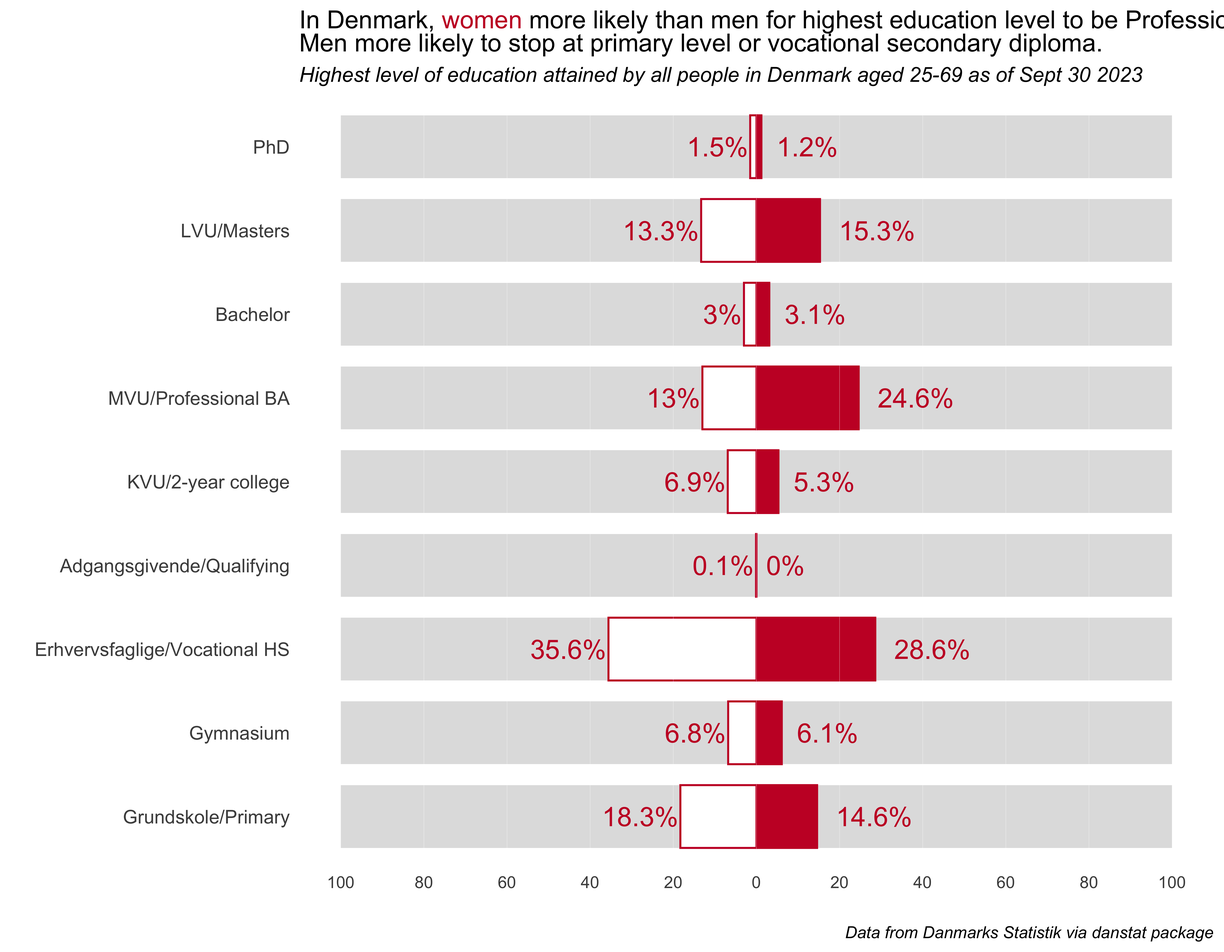
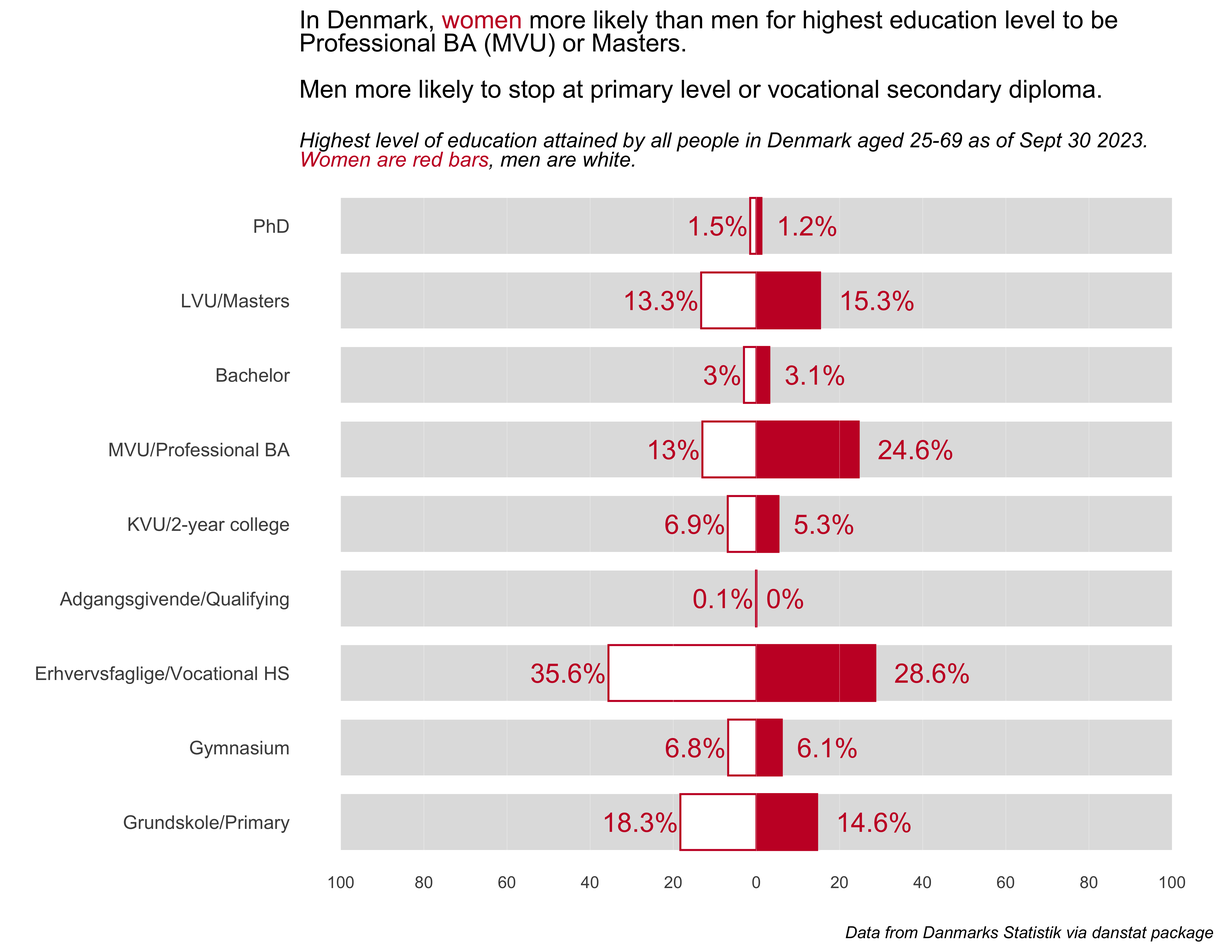
prompt 6 oecd

diff --git a/_site/posts/30-day-chart-challenge-2024/index.html b/_site/posts/30-day-chart-challenge-2024/index.html
@@ -7,7 +7,7 @@
 <meta name="viewport" content="width=device-width, initial-scale=1.0, user-scalable=yes">
 
 <meta name="author" content="gregers kjerulf dubrow">
-<meta name="dcterms.date" content="2024-04-24">
+<meta name="dcterms.date" content="2024-04-26">
 <meta name="description" content="Let’s make some charts!">
 
 <title>gregers kjerulf dubrow - 30 Day Chart Challenge 2024</title>
@@ -235,7 +235,7 @@ cookieconsent.run({
       <div>
       <div class="quarto-title-meta-heading">Published</div>
       <div class="quarto-title-meta-contents">
-        <p class="date">April 24, 2024</p>
+        <p class="date">April 26, 2024</p>
       </div>
     </div>
     
@@ -256,6 +256,7 @@ cookieconsent.run({
   <li><a href="#prompt2" id="toc-prompt2" class="nav-link" data-scroll-target="#prompt2">Prompt #2 - Neo</a></li>
   <li><a href="#prompts3and4" id="toc-prompts3and4" class="nav-link" data-scroll-target="#prompts3and4">Prompts #3 &amp; 4 - Redo &amp; Waffle</a></li>
   <li><a href="#prompt5" id="toc-prompt5" class="nav-link" data-scroll-target="#prompt5">Prompt #5 - Diverging</a></li>
+  <li><a href="#prompt6" id="toc-prompt6" class="nav-link" data-scroll-target="#prompt6">Prompt #6 - OECD</a></li>
   </ul>
 </nav>
     </div>
@@ -414,7 +415,7 @@ cookieconsent.run({
 <span id="cb3-5"><a href="#cb3-5" aria-hidden="true" tabindex="-1"></a>    <span class="fu">rename</span>(<span class="at">year =</span> TIME_PERIOD)</span>
 <span id="cb3-6"><a href="#cb3-6" aria-hidden="true" tabindex="-1"></a><span class="co">#&gt; </span></span>
 <span id="cb3-7"><a href="#cb3-7" aria-hidden="true" tabindex="-1"></a>indexed <span class="dv">0</span>B <span class="cf">in</span>  <span class="dv">0</span>s, <span class="dv">0</span>B<span class="sc">/</span>s</span>
-<span id="cb3-8"><a href="#cb3-8" aria-hidden="true" tabindex="-1"></a>indexed <span class="fl">1.00</span>TB <span class="cf">in</span>  <span class="dv">0</span>s, <span class="fl">2.30</span>PB<span class="sc">/</span>s</span>
+<span id="cb3-8"><a href="#cb3-8" aria-hidden="true" tabindex="-1"></a>indexed <span class="fl">1.00</span>TB <span class="cf">in</span>  <span class="dv">0</span>s, <span class="fl">2.51</span>PB<span class="sc">/</span>s</span>
 <span id="cb3-9"><a href="#cb3-9" aria-hidden="true" tabindex="-1"></a>                                                                              </span>
 <span id="cb3-10"><a href="#cb3-10" aria-hidden="true" tabindex="-1"></a></span>
 <span id="cb3-11"><a href="#cb3-11" aria-hidden="true" tabindex="-1"></a><span class="co"># make the plots</span></span>
@@ -753,14 +754,15 @@ cookieconsent.run({
 <span id="cb7-25"><a href="#cb7-25" aria-hidden="true" tabindex="-1"></a>                <span class="at">hjust =</span> <span class="sc">-</span>.<span class="dv">25</span>) <span class="sc">+</span></span>
 <span id="cb7-26"><a href="#cb7-26" aria-hidden="true" tabindex="-1"></a>    <span class="fu">labs</span>(<span class="at">x =</span> <span class="st">""</span>, <span class="at">y =</span> <span class="st">""</span>,</span>
 <span id="cb7-27"><a href="#cb7-27" aria-hidden="true" tabindex="-1"></a>             <span class="at">title =</span> <span class="st">"In Denmark, &lt;span style = 'color: #C8102E;'&gt;women&lt;/span&gt; more likely than men for highest education</span></span>
-<span id="cb7-28"><a href="#cb7-28" aria-hidden="true" tabindex="-1"></a><span class="st">             level to be Professional BA (MVU) or Masters.&lt;br&gt;Men more likely to stop at primary level or vocational secondary diploma."</span>,</span>
-<span id="cb7-29"><a href="#cb7-29" aria-hidden="true" tabindex="-1"></a>             <span class="at">subtitle =</span> <span class="st">"*Highest level of education attained by all people in Denmark aged 25-69 as of Sept 30 2023*"</span>,</span>
-<span id="cb7-30"><a href="#cb7-30" aria-hidden="true" tabindex="-1"></a>             <span class="at">caption =</span> <span class="st">"*Data from Danmarks Statistik via danstat package*"</span>) <span class="sc">+</span></span>
-<span id="cb7-31"><a href="#cb7-31" aria-hidden="true" tabindex="-1"></a>    <span class="fu">theme_minimal</span>() <span class="sc">+</span></span>
-<span id="cb7-32"><a href="#cb7-32" aria-hidden="true" tabindex="-1"></a>    <span class="fu">theme</span>(<span class="at">panel.grid =</span> <span class="fu">element_blank</span>(), <span class="at">plot.title =</span> <span class="fu">element_markdown</span>(),</span>
-<span id="cb7-33"><a href="#cb7-33" aria-hidden="true" tabindex="-1"></a>                <span class="at">plot.subtitle =</span> <span class="fu">element_markdown</span>(), <span class="at">plot.caption =</span> <span class="fu">element_markdown</span>(),</span>
-<span id="cb7-34"><a href="#cb7-34" aria-hidden="true" tabindex="-1"></a>                <span class="at">legend.position =</span> <span class="st">"none"</span>,</span>
-<span id="cb7-35"><a href="#cb7-35" aria-hidden="true" tabindex="-1"></a>                <span class="at">axis.text.y =</span> <span class="fu">element_text</span>(<span class="at">size =</span> <span class="dv">10</span>))</span></code><button title="Copy to Clipboard" class="code-copy-button"><i class="bi"></i></button></pre></div>
+<span id="cb7-28"><a href="#cb7-28" aria-hidden="true" tabindex="-1"></a><span class="st">             level to be &lt;br&gt;Professional BA (MVU) or Masters.&lt;br&gt;&lt;br&gt;Men more likely to stop at primary level or vocational secondary diploma."</span>,</span>
+<span id="cb7-29"><a href="#cb7-29" aria-hidden="true" tabindex="-1"></a>             <span class="at">subtitle =</span> <span class="st">"&lt;br&gt;*Highest level of education attained by all people in Denmark aged 25-69 as of Sept 30 2023.</span></span>
+<span id="cb7-30"><a href="#cb7-30" aria-hidden="true" tabindex="-1"></a><span class="st">             &lt;br&gt;&lt;span style = 'color: #C8102E;'&gt;Women are red bars&lt;/span&gt;, men are white.*"</span>,</span>
+<span id="cb7-31"><a href="#cb7-31" aria-hidden="true" tabindex="-1"></a>             <span class="at">caption =</span> <span class="st">"*Data from Danmarks Statistik via danstat package*"</span>) <span class="sc">+</span></span>
+<span id="cb7-32"><a href="#cb7-32" aria-hidden="true" tabindex="-1"></a>    <span class="fu">theme_minimal</span>() <span class="sc">+</span></span>
+<span id="cb7-33"><a href="#cb7-33" aria-hidden="true" tabindex="-1"></a>    <span class="fu">theme</span>(<span class="at">panel.grid =</span> <span class="fu">element_blank</span>(), <span class="at">plot.title =</span> <span class="fu">element_markdown</span>(),</span>
+<span id="cb7-34"><a href="#cb7-34" aria-hidden="true" tabindex="-1"></a>                <span class="at">plot.subtitle =</span> <span class="fu">element_markdown</span>(), <span class="at">plot.caption =</span> <span class="fu">element_markdown</span>(),</span>
+<span id="cb7-35"><a href="#cb7-35" aria-hidden="true" tabindex="-1"></a>                <span class="at">legend.position =</span> <span class="st">"none"</span>,</span>
+<span id="cb7-36"><a href="#cb7-36" aria-hidden="true" tabindex="-1"></a>                <span class="at">axis.text.y =</span> <span class="fu">element_text</span>(<span class="at">size =</span> <span class="dv">10</span>))</span></code><button title="Copy to Clipboard" class="code-copy-button"><i class="bi"></i></button></pre></div>
 </details>
 <div class="cell-output-display">
 <div>
@@ -772,6 +774,95 @@ cookieconsent.run({
 </div>
 <p>There it is, a simple, clean chart showing how highest educational attainment differs for women and men in Denmark. I’m definitely interested in exploring differences by age group and by region.</p>
 <p><em>created and posted April 24, 2024</em></p>
+</section>
+<section id="prompt6" class="level2">
+<h2 class="anchored" data-anchor-id="prompt6">Prompt #6 - OECD</h2>
+<p>Staying with the emerging theme of educational attainment, this prompt was a good excuse to try out the <a href="https://github.com/expersso/OECD"><code>oecd</code> package</a>. The package wraps functions to access OECD data through their API for their <a href="https://data-explorer.oecd.org/">Data Explorer platform</a>.</p>
+<p>It’s fairly straight forward to use…look up the table you want, set the filters, copy the API script and parse out as the package documentation shows. In the example they do not show it, but make sure if you set time parameters that you put it in the <code>start_date</code> and <code>end_date</code> calls. You can of course name the dataset and filters anything you want. I chose my names so they wouldn’t conflict with function calls.</p>
+<p>For this chart I looked at educational attainment in Nordic countries; Denmark, Finland, Iceland, Norway, &amp; Sweden <em>(i)</em>, by sex for all people aged 25 to 64 in 2022. For the sake of expediency, I’ll copy the overall format &amp; theme from prompt 1.</p>
+<p><em>i) let’s not get into here the difference between Nordic &amp; Scandinavian, what constitutes Scandinavian &amp; why…</em></p>
+<p>The code for getting the data and making the chart is below.</p>
+<div class="cell">
+<details class="code-fold">
+<summary>Show code for prompt 6</summary>
+<div class="sourceCode cell-code" id="cb8"><pre class="sourceCode r code-overflow-scroll code-with-copy"><code class="sourceCode r"><span id="cb8-1"><a href="#cb8-1" aria-hidden="true" tabindex="-1"></a><span class="do">## code for 30 Day Chart Challenge 2024, day 6 OECD</span></span>
+<span id="cb8-2"><a href="#cb8-2" aria-hidden="true" tabindex="-1"></a><span class="do">## educational attainment via OECD package</span></span>
+<span id="cb8-3"><a href="#cb8-3" aria-hidden="true" tabindex="-1"></a><span class="do">## nordics, by sex 25 to 64, 2020-2022</span></span>
+<span id="cb8-4"><a href="#cb8-4" aria-hidden="true" tabindex="-1"></a></span>
+<span id="cb8-5"><a href="#cb8-5" aria-hidden="true" tabindex="-1"></a><span class="fu">library</span>(tidyverse) <span class="co"># to do tidyverse things</span></span>
+<span id="cb8-6"><a href="#cb8-6" aria-hidden="true" tabindex="-1"></a><span class="fu">library</span>(tidylog) <span class="co"># to get a log of what's happening to the data</span></span>
+<span id="cb8-7"><a href="#cb8-7" aria-hidden="true" tabindex="-1"></a><span class="fu">library</span>(janitor) <span class="co"># tools for data cleaning</span></span>
+<span id="cb8-8"><a href="#cb8-8" aria-hidden="true" tabindex="-1"></a><span class="fu">library</span>(OECD) <span class="co"># package to get OECD data via api</span></span>
+<span id="cb8-9"><a href="#cb8-9" aria-hidden="true" tabindex="-1"></a><span class="fu">library</span>(ggtext) <span class="co"># enhancements for text in ggplot</span></span>
+<span id="cb8-10"><a href="#cb8-10" aria-hidden="true" tabindex="-1"></a></span>
+<span id="cb8-11"><a href="#cb8-11" aria-hidden="true" tabindex="-1"></a><span class="co"># table from website</span></span>
+<span id="cb8-12"><a href="#cb8-12" aria-hidden="true" tabindex="-1"></a><span class="co"># https://www.oecd-ilibrary.org/education/data/education-at-a-glance/educational-attainment-and-labour-force-status_889e8641-en</span></span>
+<span id="cb8-13"><a href="#cb8-13" aria-hidden="true" tabindex="-1"></a></span>
+<span id="cb8-14"><a href="#cb8-14" aria-hidden="true" tabindex="-1"></a>edattdata <span class="ot">&lt;-</span> <span class="st">"OECD.CFE.EDS,DSD_REG_EDU@DF_ATTAIN,1.0"</span></span>
+<span id="cb8-15"><a href="#cb8-15" aria-hidden="true" tabindex="-1"></a>edattfilter <span class="ot">&lt;-</span> <span class="st">"A.CTRY.SWE+NOR+ISL+FIN+DNK...Y25T64.F+M.ISCED11_0T2+ISCED11_5T8+ISCED11_3_4.."</span></span>
+<span id="cb8-16"><a href="#cb8-16" aria-hidden="true" tabindex="-1"></a></span>
+<span id="cb8-17"><a href="#cb8-17" aria-hidden="true" tabindex="-1"></a>oecd1 <span class="ot">&lt;-</span> <span class="fu">get_dataset</span>(edattdata, edattfilter, <span class="at">start_time =</span> <span class="dv">2020</span>, <span class="at">end_time =</span> <span class="dv">2022</span>)</span>
+<span id="cb8-18"><a href="#cb8-18" aria-hidden="true" tabindex="-1"></a></span>
+<span id="cb8-19"><a href="#cb8-19" aria-hidden="true" tabindex="-1"></a><span class="co"># get metadata - helpful to create labels for factors.</span></span>
+<span id="cb8-20"><a href="#cb8-20" aria-hidden="true" tabindex="-1"></a><span class="co"># see package documentation on github </span></span>
+<span id="cb8-21"><a href="#cb8-21" aria-hidden="true" tabindex="-1"></a>oecd_metadata <span class="ot">&lt;-</span> <span class="fu">get_data_structure</span>(edattdata)</span>
+<span id="cb8-22"><a href="#cb8-22" aria-hidden="true" tabindex="-1"></a></span>
+<span id="cb8-23"><a href="#cb8-23" aria-hidden="true" tabindex="-1"></a><span class="co"># gets labels for country codes</span></span>
+<span id="cb8-24"><a href="#cb8-24" aria-hidden="true" tabindex="-1"></a>datalabs_ct <span class="ot">&lt;-</span> oecd_metadata<span class="sc">$</span>CL_REGIONAL <span class="sc">%&gt;%</span></span>
+<span id="cb8-25"><a href="#cb8-25" aria-hidden="true" tabindex="-1"></a>    <span class="fu">rename</span>(<span class="at">COUNTRY =</span> id)</span>
+<span id="cb8-26"><a href="#cb8-26" aria-hidden="true" tabindex="-1"></a></span>
+<span id="cb8-27"><a href="#cb8-27" aria-hidden="true" tabindex="-1"></a><span class="co"># keep only necessary vars, change some to factors &amp; add labels</span></span>
+<span id="cb8-28"><a href="#cb8-28" aria-hidden="true" tabindex="-1"></a>oecd <span class="ot">&lt;-</span> oecd1 <span class="sc">%&gt;%</span></span>
+<span id="cb8-29"><a href="#cb8-29" aria-hidden="true" tabindex="-1"></a>    <span class="fu">mutate</span>(<span class="at">EDUCATION_LEV =</span></span>
+<span id="cb8-30"><a href="#cb8-30" aria-hidden="true" tabindex="-1"></a>        <span class="fu">factor</span>(EDUCATION_LEV,</span>
+<span id="cb8-31"><a href="#cb8-31" aria-hidden="true" tabindex="-1"></a>            <span class="at">levels =</span> <span class="fu">c</span>(<span class="st">"ISCED11_0T2"</span>, <span class="st">"ISCED11_3_4"</span>, <span class="st">"ISCED11_5T8"</span>),</span>
+<span id="cb8-32"><a href="#cb8-32" aria-hidden="true" tabindex="-1"></a>            <span class="at">labels =</span> <span class="fu">c</span>(<span class="st">"Pre-primary thru lower secondary"</span>,</span>
+<span id="cb8-33"><a href="#cb8-33" aria-hidden="true" tabindex="-1"></a>                        <span class="st">"Upper secondary and non-degree tertiary"</span>, <span class="st">"Tertiary education"</span>))) <span class="sc">%&gt;%</span></span>
+<span id="cb8-34"><a href="#cb8-34" aria-hidden="true" tabindex="-1"></a>    <span class="fu">mutate</span>(<span class="at">SEX =</span> <span class="fu">case_when</span>(SEX <span class="sc">==</span> <span class="st">"M"</span> <span class="sc">~</span> <span class="st">"Male"</span>, SEX <span class="sc">==</span> <span class="st">"F"</span> <span class="sc">~</span> <span class="st">"Female"</span>)) <span class="sc">%&gt;%</span></span>
+<span id="cb8-35"><a href="#cb8-35" aria-hidden="true" tabindex="-1"></a>    <span class="fu">mutate</span>(<span class="at">pct_attain2 =</span> <span class="fu">as.numeric</span>(ObsValue)) <span class="sc">%&gt;%</span></span>
+<span id="cb8-36"><a href="#cb8-36" aria-hidden="true" tabindex="-1"></a>    <span class="fu">mutate</span>(<span class="at">pct_attain =</span> pct_attain2 <span class="sc">/</span> <span class="dv">100</span>) <span class="sc">%&gt;%</span></span>
+<span id="cb8-37"><a href="#cb8-37" aria-hidden="true" tabindex="-1"></a>    <span class="co"># join to have labels instead of country abbrvs</span></span>
+<span id="cb8-38"><a href="#cb8-38" aria-hidden="true" tabindex="-1"></a>    <span class="fu">left_join</span>(datalabs_ct) <span class="sc">%&gt;%</span></span>
+<span id="cb8-39"><a href="#cb8-39" aria-hidden="true" tabindex="-1"></a>    <span class="fu">select</span>(<span class="at">country =</span> label,  <span class="at">year =</span> TIME_PERIOD, SEX, EDUCATION_LEV, pct_attain, pct_attain2) <span class="sc">%&gt;%</span></span>
+<span id="cb8-40"><a href="#cb8-40" aria-hidden="true" tabindex="-1"></a>    <span class="fu">clean_names</span>()</span>
+<span id="cb8-41"><a href="#cb8-41" aria-hidden="true" tabindex="-1"></a></span>
+<span id="cb8-42"><a href="#cb8-42" aria-hidden="true" tabindex="-1"></a><span class="do">## chart...horizontal stacked bar</span></span>
+<span id="cb8-43"><a href="#cb8-43" aria-hidden="true" tabindex="-1"></a>oecd <span class="sc">%&gt;%</span></span>
+<span id="cb8-44"><a href="#cb8-44" aria-hidden="true" tabindex="-1"></a>    <span class="fu">filter</span>(year <span class="sc">==</span> <span class="st">"2022"</span>) <span class="sc">%&gt;%</span></span>
+<span id="cb8-45"><a href="#cb8-45" aria-hidden="true" tabindex="-1"></a>    <span class="fu">ggplot</span>(<span class="fu">aes</span>(pct_attain, <span class="fu">fct_rev</span>(country), <span class="at">fill =</span> <span class="fu">fct_rev</span>(education_lev))) <span class="sc">+</span></span>
+<span id="cb8-46"><a href="#cb8-46" aria-hidden="true" tabindex="-1"></a>    <span class="fu">geom_bar</span>(<span class="at">stat =</span> <span class="st">"identity"</span>) <span class="sc">+</span></span>
+<span id="cb8-47"><a href="#cb8-47" aria-hidden="true" tabindex="-1"></a>    <span class="fu">scale_x_continuous</span>(<span class="at">expand =</span> <span class="fu">c</span>(<span class="dv">0</span>,<span class="dv">0</span>),</span>
+<span id="cb8-48"><a href="#cb8-48" aria-hidden="true" tabindex="-1"></a>                <span class="at">breaks =</span> <span class="fu">c</span>(.<span class="dv">01</span>, <span class="fl">0.25</span>, <span class="fl">0.50</span>, <span class="fl">0.75</span>, .<span class="dv">97</span>),</span>
+<span id="cb8-49"><a href="#cb8-49" aria-hidden="true" tabindex="-1"></a>                <span class="at">labels =</span> <span class="fu">c</span>(<span class="st">"0"</span>, <span class="st">"25%"</span>, <span class="st">"50%"</span>, <span class="st">"75%"</span>, <span class="st">"100%"</span>)) <span class="sc">+</span></span>
+<span id="cb8-50"><a href="#cb8-50" aria-hidden="true" tabindex="-1"></a>    <span class="fu">facet_wrap</span>(<span class="sc">~</span> sex, <span class="at">nrow =</span> <span class="dv">1</span>) <span class="sc">+</span></span>
+<span id="cb8-51"><a href="#cb8-51" aria-hidden="true" tabindex="-1"></a>    <span class="fu">geom_text</span>(<span class="fu">aes</span>(<span class="at">label =</span> scales<span class="sc">::</span><span class="fu">percent</span>(<span class="fu">round</span>(pct_attain , <span class="dv">2</span>))),</span>
+<span id="cb8-52"><a href="#cb8-52" aria-hidden="true" tabindex="-1"></a>                <span class="at">position =</span> <span class="fu">position_stack</span>(<span class="at">vjust =</span> <span class="fl">0.5</span>),</span>
+<span id="cb8-53"><a href="#cb8-53" aria-hidden="true" tabindex="-1"></a>                <span class="at">color=</span> <span class="st">"white"</span>, <span class="at">vjust =</span> <span class="fl">0.5</span>, <span class="at">size =</span> <span class="dv">5</span>) <span class="sc">+</span></span>
+<span id="cb8-54"><a href="#cb8-54" aria-hidden="true" tabindex="-1"></a>    <span class="fu">labs</span>(<span class="at">title =</span> <span class="st">"In Nordic countries, women age 25-64 more likely than men to complete college.&lt;br&gt;&lt;br&gt;</span></span>
+<span id="cb8-55"><a href="#cb8-55" aria-hidden="true" tabindex="-1"></a><span class="st">             Finns have lowest levels of attainment stopping at lower secondary"</span>,</span>
+<span id="cb8-56"><a href="#cb8-56" aria-hidden="true" tabindex="-1"></a>             <span class="at">subtitle =</span> <span class="st">"&lt;br&gt;*Educational Attainment in Nordic Countries, by Sex, ages 25-64 combined, 2022*"</span>,</span>
+<span id="cb8-57"><a href="#cb8-57" aria-hidden="true" tabindex="-1"></a>             <span class="at">caption =</span> <span class="st">"*Data from OECD, via oecd package for r*"</span>,</span>
+<span id="cb8-58"><a href="#cb8-58" aria-hidden="true" tabindex="-1"></a>             <span class="at">x =</span> <span class="st">""</span>, <span class="at">y =</span> <span class="st">""</span>) <span class="sc">+</span></span>
+<span id="cb8-59"><a href="#cb8-59" aria-hidden="true" tabindex="-1"></a>    <span class="fu">scale_fill_brewer</span>(<span class="at">palette =</span> <span class="st">"Set2"</span>) <span class="sc">+</span></span>
+<span id="cb8-60"><a href="#cb8-60" aria-hidden="true" tabindex="-1"></a>    <span class="fu">theme_minimal</span>() <span class="sc">+</span></span>
+<span id="cb8-61"><a href="#cb8-61" aria-hidden="true" tabindex="-1"></a>    <span class="fu">theme</span>(<span class="at">legend.position =</span> <span class="st">"bottom"</span>, <span class="at">legend.spacing.x =</span> <span class="fu">unit</span>(<span class="dv">0</span>, <span class="st">'cm'</span>),</span>
+<span id="cb8-62"><a href="#cb8-62" aria-hidden="true" tabindex="-1"></a>                <span class="at">legend.key.width =</span> <span class="fu">unit</span>(<span class="fl">1.5</span>, <span class="st">'cm'</span>), <span class="at">legend.margin=</span><span class="fu">margin</span>(<span class="sc">-</span><span class="dv">10</span>, <span class="dv">0</span>, <span class="dv">0</span>, <span class="dv">0</span>),</span>
+<span id="cb8-63"><a href="#cb8-63" aria-hidden="true" tabindex="-1"></a>                <span class="at">plot.title =</span> <span class="fu">element_markdown</span>(), <span class="at">plot.subtitle =</span> <span class="fu">element_markdown</span>(),</span>
+<span id="cb8-64"><a href="#cb8-64" aria-hidden="true" tabindex="-1"></a>                <span class="at">plot.caption =</span> <span class="fu">element_markdown</span>(),</span>
+<span id="cb8-65"><a href="#cb8-65" aria-hidden="true" tabindex="-1"></a>                <span class="at">panel.grid.major =</span> <span class="fu">element_blank</span>(), <span class="at">panel.grid.minor =</span> <span class="fu">element_blank</span>()) <span class="sc">+</span></span>
+<span id="cb8-66"><a href="#cb8-66" aria-hidden="true" tabindex="-1"></a>    <span class="fu">guides</span>(<span class="at">fill =</span> <span class="fu">guide_legend</span>(<span class="at">label.position =</span> <span class="st">"bottom"</span>, <span class="at">reverse =</span> <span class="cn">TRUE</span>,</span>
+<span id="cb8-67"><a href="#cb8-67" aria-hidden="true" tabindex="-1"></a>                <span class="at">title =</span> <span class="st">"Education Levels"</span>, <span class="at">title.position =</span> <span class="st">"top"</span>))</span></code><button title="Copy to Clipboard" class="code-copy-button"><i class="bi"></i></button></pre></div>
+</details>
+<div class="cell-output-display">
+<div>
+<figure class="figure">
+<p><a href="images/prompt6-1.png" class="lightbox" data-gallery="quarto-lightbox-gallery-6"><img src="images/prompt6-1.png" class="img-fluid figure-img" style="width:100.0%"></a></p>
+</figure>
+</div>
+</div>
+</div>
+<p>You can see that there are some differences in levels of attainment between countries. I don’t know enough context to speculate as to why. Also, as you add more countries to the filter, the education levels and age groups are aggregated into bigger buckets, presumably to facilitate comparisons. Denmark has a good national database where you can drill down more by age and level, so if I wanted to look at differences by smaller age groups and over time, I’d have to dig into the individual countries national statistics databanks and would have to hope that the age groups and attainment levels are similar enough.</p>
+<p><em>created and posted April 26, 2024</em></p>
 
 
 </section>
@@ -1208,7 +1299,7 @@ window.document.addEventListener("DOMContentLoaded", function (event) {
     </div>
   </div>
 </footer>
-<script>var lightboxQuarto = GLightbox({"selector":".lightbox","descPosition":"bottom","loop":false,"closeEffect":"zoom","openEffect":"zoom"});
+<script>var lightboxQuarto = GLightbox({"selector":".lightbox","closeEffect":"zoom","descPosition":"bottom","loop":false,"openEffect":"zoom"});
 window.onload = () => {
   lightboxQuarto.on('slide_before_load', (data) => {
     const { slideIndex, slideNode, slideConfig, player, trigger } = data;

diff --git a/_site/index.html b/_site/index.html
@@ -258,58 +258,7 @@ window.Quarto = {
   </div>
 </div>
 <div class="list quarto-listing-default">
-<div class="quarto-post image-right" data-index="0" data-categories="post,rstats,ggplot,regression,ols,bicycle,denmark" data-listing-date-sort="1713996000000" data-listing-file-modified-sort="1714049816025" data-listing-date-modified-sort="NaN" data-listing-reading-time-sort="11" data-listing-word-count-sort="2132">
-<div class="thumbnail">
-<p><a href="./posts/my-year-of-riding-danishly-pt2/index.html" class="no-external"></a></p><a href="./posts/my-year-of-riding-danishly-pt2/index.html" class="no-external">
-<p><img src="./posts/my-year-of-riding-danishly-pt2/commute_bike.jpg" class="thumbnail-image"></p>
-</a><p><a href="./posts/my-year-of-riding-danishly-pt2/index.html" class="no-external"></a></p>
-</div>
-<div class="body">
-<h3 class="no-anchor listing-title">
-<a href="./posts/my-year-of-riding-danishly-pt2/index.html" class="no-external">My Year of Riding Danishly pt 2</a>
-</h3>
-<div class="listing-subtitle">
-<a href="./posts/my-year-of-riding-danishly-pt2/index.html" class="no-external"></a>
-</div>
-<div class="listing-categories">
-<div class="listing-category" onclick="window.quartoListingCategory('post'); return false;">
-post
-</div>
-<div class="listing-category" onclick="window.quartoListingCategory('rstats'); return false;">
-rstats
-</div>
-<div class="listing-category" onclick="window.quartoListingCategory('ggplot'); return false;">
-ggplot
-</div>
-<div class="listing-category" onclick="window.quartoListingCategory('regression'); return false;">
-regression
-</div>
-<div class="listing-category" onclick="window.quartoListingCategory('ols'); return false;">
-ols
-</div>
-<div class="listing-category" onclick="window.quartoListingCategory('bicycle'); return false;">
-bicycle
-</div>
-<div class="listing-category" onclick="window.quartoListingCategory('denmark'); return false;">
-denmark
-</div>
-</div>
-<div class="listing-description">
-<a href="./posts/my-year-of-riding-danishly-pt2/index.html" class="no-external">Now with new residual plots and unique days ridden</a>
-</div>
-</div>
-<div class="metadata">
-<a href="./posts/my-year-of-riding-danishly-pt2/index.html" class="no-external">
-<div class="listing-date">
-Apr 25, 2024
-</div>
-<div class="listing-author">
-gregers kjerulf dubrow
-</div>
-</a>
-</div>
-</div>
-<div class="quarto-post image-right" data-index="1" data-categories="post,rstats,ggplot,dataviz,chartchallenge,tidytuesday,eurostat" data-listing-date-sort="1713996000000" data-listing-file-modified-sort="1713945937612" data-listing-date-modified-sort="NaN" data-listing-reading-time-sort="15" data-listing-word-count-sort="2959">
+<div class="quarto-post image-right" data-index="0" data-categories="post,rstats,ggplot,dataviz,chartchallenge,tidytuesday,eurostat" data-listing-date-sort="1714082400000" data-listing-file-modified-sort="1714159442848" data-listing-date-modified-sort="NaN" data-listing-reading-time-sort="19" data-listing-word-count-sort="3612">
 <div class="thumbnail">
 <p><a href="./posts/30-day-chart-challenge-2024/index.html" class="no-external"></a></p><a href="./posts/30-day-chart-challenge-2024/index.html" class="no-external">
 <p><img src="./posts/30-day-chart-challenge-2024/prompts.png" class="thumbnail-image"></p>
@@ -351,6 +300,57 @@ eurostat
 </div>
 <div class="metadata">
 <a href="./posts/30-day-chart-challenge-2024/index.html" class="no-external">
+<div class="listing-date">
+Apr 26, 2024
+</div>
+<div class="listing-author">
+gregers kjerulf dubrow
+</div>
+</a>
+</div>
+</div>
+<div class="quarto-post image-right" data-index="1" data-categories="post,rstats,ggplot,regression,ols,bicycle,denmark" data-listing-date-sort="1713996000000" data-listing-file-modified-sort="1714049816025" data-listing-date-modified-sort="NaN" data-listing-reading-time-sort="11" data-listing-word-count-sort="2132">
+<div class="thumbnail">
+<p><a href="./posts/my-year-of-riding-danishly-pt2/index.html" class="no-external"></a></p><a href="./posts/my-year-of-riding-danishly-pt2/index.html" class="no-external">
+<p><img src="./posts/my-year-of-riding-danishly-pt2/commute_bike.jpg" class="thumbnail-image"></p>
+</a><p><a href="./posts/my-year-of-riding-danishly-pt2/index.html" class="no-external"></a></p>
+</div>
+<div class="body">
+<h3 class="no-anchor listing-title">
+<a href="./posts/my-year-of-riding-danishly-pt2/index.html" class="no-external">My Year of Riding Danishly pt 2</a>
+</h3>
+<div class="listing-subtitle">
+<a href="./posts/my-year-of-riding-danishly-pt2/index.html" class="no-external"></a>
+</div>
+<div class="listing-categories">
+<div class="listing-category" onclick="window.quartoListingCategory('post'); return false;">
+post
+</div>
+<div class="listing-category" onclick="window.quartoListingCategory('rstats'); return false;">
+rstats
+</div>
+<div class="listing-category" onclick="window.quartoListingCategory('ggplot'); return false;">
+ggplot
+</div>
+<div class="listing-category" onclick="window.quartoListingCategory('regression'); return false;">
+regression
+</div>
+<div class="listing-category" onclick="window.quartoListingCategory('ols'); return false;">
+ols
+</div>
+<div class="listing-category" onclick="window.quartoListingCategory('bicycle'); return false;">
+bicycle
+</div>
+<div class="listing-category" onclick="window.quartoListingCategory('denmark'); return false;">
+denmark
+</div>
+</div>
+<div class="listing-description">
+<a href="./posts/my-year-of-riding-danishly-pt2/index.html" class="no-external">Now with new residual plots and unique days ridden</a>
+</div>
+</div>
+<div class="metadata">
+<a href="./posts/my-year-of-riding-danishly-pt2/index.html" class="no-external">
 <div class="listing-date">
 Apr 25, 2024
 </div>
